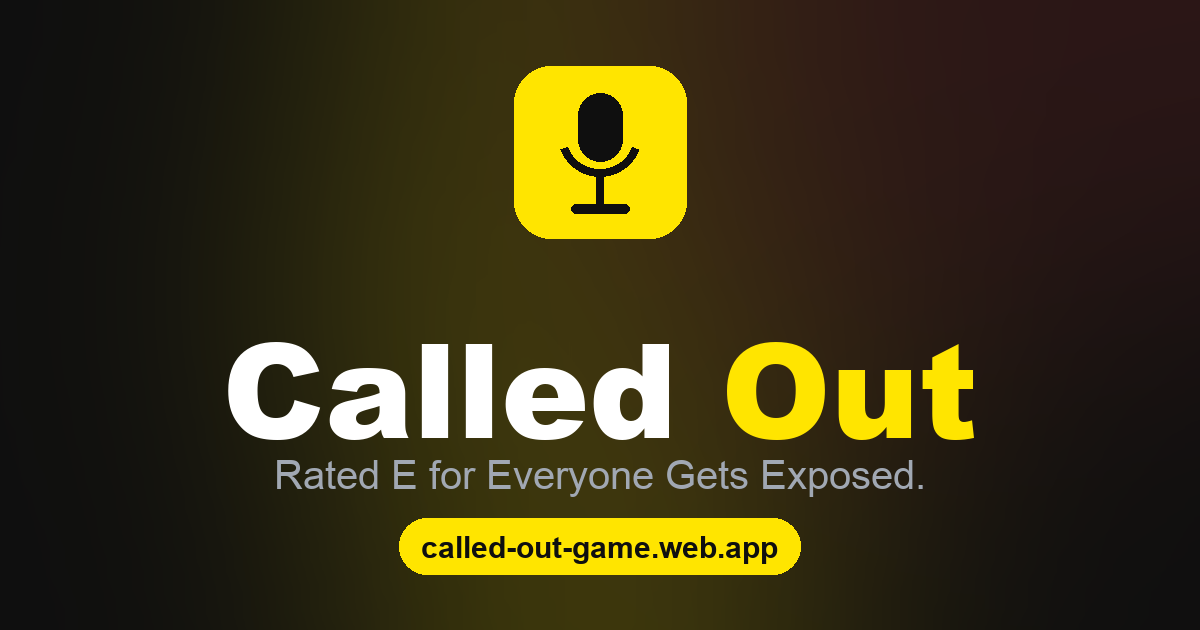
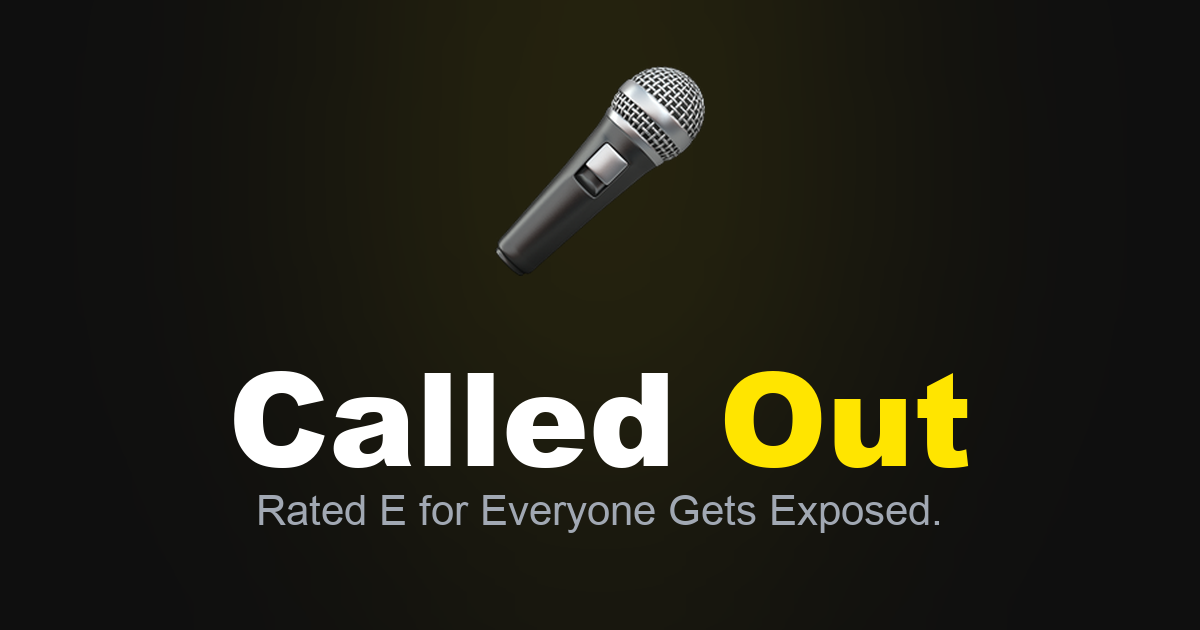
Use the emoji mic in OG preview, drop the URL text
Match the home-screen microphone (rendered via Apple Color Emoji) and remove the
url pill per feedback; cache-bust og:image so the refreshed card shows.

Changed region(s): [[0.185, 0.0905, 0.8325, 1.0], [0.74, 0.0, 1.0, 0.2413]]

diff --git a/index.html b/index.html
@@ -18,7 +18,7 @@
     <meta property="og:title" content="Called Out 🎤" />
     <meta property="og:description" content="A real-time party game where friends vote on who's most likely to… Get called out." />
     <meta property="og:url" content="https://called-out-game.web.app/" />
-    <meta property="og:image" content="https://called-out-game.web.app/og-image.png" />
+    <meta property="og:image" content="https://called-out-game.web.app/og-image.png?v=2" />
     <meta property="og:image:width" content="1200" />
     <meta property="og:image:height" content="630" />
     <meta property="og:image:type" content="image/png" />
@@ -28,7 +28,7 @@
     <meta name="twitter:card" content="summary_large_image" />
     <meta name="twitter:title" content="Called Out 🎤" />
     <meta name="twitter:description" content="A real-time party game where friends vote on who's most likely to… Get called out." />
-    <meta name="twitter:image" content="https://called-out-game.web.app/og-image.png" />
+    <meta name="twitter:image" content="https://called-out-game.web.app/og-image.png?v=2" />
     <link rel="preconnect" href="https://fonts.googleapis.com" />
     <link rel="preconnect" href="https://fonts.gstatic.com" crossorigin />
     <!-- Decorative fonts (player-name styling only; core UI uses the system stack). Loaded